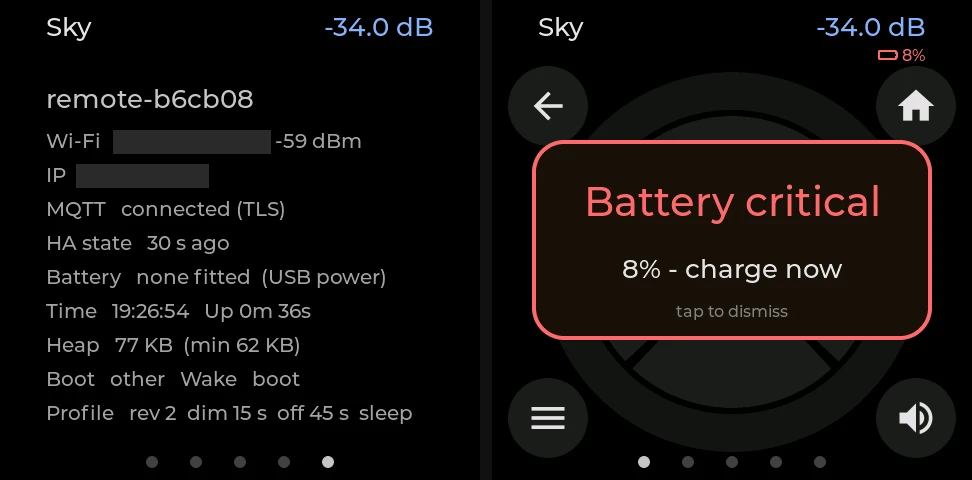
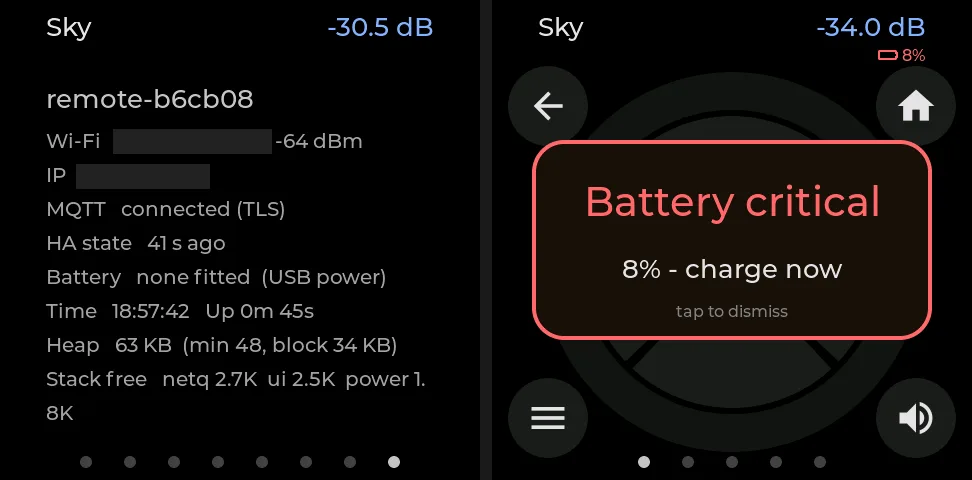
Update ESP32 remote post: new pages, honest-wait states, power findings
Claude-Session: https://claude.ai/code/session_01TQ4sYKLkZeBUUXYK5Le9vc

diff --git a/src/content/posts/2026/10/a-touchscreen-remote-for-home-assistant.md b/src/content/posts/2026/10/a-touchscreen-remote-for-home-assistant.md
@@ -1,5 +1,6 @@
 ---
 pubDatetime: 2026-10-16T19:00:00Z
+modDatetime: 2026-10-19T19:30:00Z
 title: "A Touchscreen Remote for Home Assistant, and I Didn't Write a Line of It"
 tags:
   - "home-assistant"
@@ -38,7 +39,7 @@ When I say "I" about the firmware, I mean Claude. This is the first project wher
 
 The board arrived around 2pm. By 7pm it was a fully working remote. Some of the groundwork was already there: I'd had a Zigbee prototype running on a spare ESP32-C6 board earlier in the week, and Claude and I had already agreed how the remote would talk to Home Assistant. Even so, the time from "it's on the desk" to "I'm changing the Sky box with it" was five hours.
 
-The numbers: ten commits, roughly 1,700 lines of C++ in a handful of files, and 170 lines of Home Assistant YAML. What I did was plug the board in, paste in what the computer reported, say what I saw, and say what I wanted different.
+The numbers for that first day: ten commits, roughly 1,700 lines of C++ in a handful of files, and 170 lines of Home Assistant YAML. (Three days on it is 44 commits and about 2,600 lines, and the page descriptions below are the current ones.) What I did was plug the board in, paste in what the computer reported, say what I saw, and say what I wanted different.
 
 ## How it fits together
 
@@ -56,13 +57,13 @@ Security was a decision I wanted to make explicitly. The connection uses TLS and
 
 ![Four of the pages: the click-wheel, the Activities tiles, the Playback keys and the number pad](/blog-media/2026/10/esp-remote-pages.webp)
 
-There are five pages, and you swipe or tap the dots to move between them.
+There are eight pages now. It started with five. You drag a thumb across any empty part of the screen and it turns a page for every 70 pixels, in either direction, without lifting. You can also tap a dot, or press the BOOT button on the side, which steps through the pages in a loop. I'd noticed we weren't using the physical buttons at all.
 
 **The click-wheel** is my favourite. There's an OK button in the middle, four wedges around it for the D-pad, and a thin outer ring. Run your thumb around the ring and it sends volume steps, one every 15 degrees, with a highlighted arc under your thumb. I asked for the ring to be thinner so my thumb fits on the D-pad.
 
 **Activities** has six tiles: Sky, Kodi, PS5, Chromecast, the TV and power off. The icons come from my Home Assistant dashboards, rendered in one colour. The activity that's really on is outlined in blue. Tap a different one and it turns amber at once, with "Starting Kodi" along the top, and stays that way until Home Assistant confirms it. That fixed something that annoyed me early on, when the screen stepped through Smart TV and Chromecast on the way to Sky because that's what the system did while it switched. Now the remote holds on to what I asked for and only shows the result.
 
-**Playback** and **Keypad** are what they sound like. A fifth page shows the device's own details: Wi-Fi, address, memory, battery.
+**Playback** and **Keypad** are what they sound like. The last page shows the device's own details: Wi-Fi, address, memory, battery. It's always there, even when everything is off.
 
 A few things came from my asking "could it…":
 
@@ -75,6 +76,29 @@ I was ready to push back on the captions on the Playback page until I saw them. 
 
 The speaker is there for battery warnings: two chirps at 20%, three lower tones at 10%, with a popup on screen as well. I also asked for an easter egg. Triple tap the device page, or hold it, and it plays a 30-second countdown clock. It lives in 970 KB of flash, so it's the first thing to go if I run short of space.
 
+### The pages that came later
+
+![Smart TV apps, the favourite Sky channels and the living-room lamps](/blog-media/2026/10/esp-remote-more-pages.webp)
+
+**Smart TV apps** is six tiles for Netflix, Prime, Disney+, iPlayer, ITVX and U. It only appears when the LG's own apps are what I'm after, because they can't be opened from another input. Tap Smart TV and the remote jumps to it.
+
+**Sky channels** is nine favourites with their logos: BBC One and Two, ITV1, Channel 4 and 5, TLC, Sky News, U&Dave and True Crime. The logos are single-colour, tinted to match the rest of the icons. Home Assistant types the channel number into the Sky box, and lights the tile for whatever the box is really showing, which it reads from the box every five seconds. That took some finding out. The Sky integration in Home Assistant can only send keys, so Claude went looking and found the box answers on two local ports: a list of channels, and a UPnP call that reports what's playing as a hex channel id. The first channel number Claude guessed for TLC turned out to be Sky Nature. I'd have missed that. It checked the box's own guide and fixed it.
+
+**Lamps** is the one I like to show people. It's the click-wheel again, with three wedges that toggle my three living-room lamps, a lightbulb in the centre that switches them all (off if any is on, otherwise on), and a warm white ring that dims or brightens whatever is lit. It's always available, since I'm as likely to want the lamps when the TV is off. Two of the lamps are Yeelight and one is Govee, and I'd named them inconsistently over the years, so I renamed them to `lamp_1` to `lamp_3` first. That was one of those jobs where Claude asked for permission twice, rightly, because it was changing my live Home Assistant registry.
+
+## Making it honest about what it's doing
+
+The first version showed a result as soon as I tapped. That's nice until the thing you asked for doesn't happen. Turning on the TV from cold with CEC takes up to two minutes, because the first wake-up command only half works and the TV needs two or three. Claude found that by turning on CEC logging on the media box and reading the frames. It's the TV, not the remote or Home Assistant, and I may try the TV's quick-start setting.
+
+So the remote now tells the truth about the wait:
+
+- A tile I tap turns amber for five seconds, then goes blue. The top bar stays amber ("Starting Kodi") until the real state arrives, so the tile says what I asked for and the bar says it isn't there yet. That stopped me stabbing at it.
+- A small tick appears once Home Assistant has taken the tap. If nothing has answered after three seconds, the bar goes red and says "No answer from HA". I tested that by switching off the automation that listens for key presses.
+- The apps and channels pages follow what I asked for, not what the TV is doing, so they appear straight away.
+- Once everything's off, the Off tile goes dim grey instead of blue, since there's nothing left for it to do.
+
+I also noticed switching between sources was slower from the remote than from Home Assistant's own page, and asked why. Claude compared the two and found my scripts were waiting a fixed time for the TV and receiver even when they were already on. It added a "warm" path that skips the waits, with the old timing kept for the cases that needed it. Kodi got about seven seconds faster.
+
 ## Where it went wrong
 
 **The pins didn't agree.** Waveshare's example code disagreed with itself. The Arduino examples and the ESP-IDF examples had the display's chip-select and the touch interrupt the other way round. Claude downloaded the schematic PDF, rendered the page and read the pin table off it. The site served an HTML page to a plain download, so it needed browser-style headers first. The schematic matched the Arduino numbers, and the board confirmed it.
@@ -82,6 +106,8 @@ The speaker is there for battery warnings: two chirps at 20%, three lower tones 
 **It didn't fit in memory.** Waveshare's example configuration left 52 KB free before Wi-Fi started, and Wi-Fi then failed to initialise. Claude trimmed it: no demo screens, a smaller graphics pool, smaller Wi-Fi and TLS buffers. It runs now with about 77 KB free and a low of 62 KB, which I know because the device page shows it. That's less headroom than I'd like.
 
 **Key presses vanished.** The remote reported sending them and Home Assistant saw nothing. A messaging-library call that looks like it queues a message quietly throws it away when you ask for the lightest delivery setting. Claude found it by rereading the library's documentation.
+
+**Switching a power rail off silenced the speaker.** While hunting for where the power goes, Claude switched off one of the power chip's rails, and the beeps I was using as markers stopped, because that rail feeds the audio chip. I'd taken the silence for a crash, and Claude had told me it was one. It wasn't, and I got the correction.
 
 **The motion sensor lied.** It returned the same reading every time. Claude dumped the chip's registers and found its own sample counter never moved. It only samples when the gyroscope is switched on as well, even if you only want acceleration.
 
@@ -93,16 +119,22 @@ You can't read a screen back from the panel itself. So Claude built a debug opti
 
 The battery warning on the right is real firmware running with the battery level faked, since there's no battery to drain. The device page on the left has the Wi-Fi name and address covered.
 
+## Power, and what the meter said
+
+I wanted to know where the 44 mA goes, so Claude built a test harness that steps through states while I read an inline USB meter: screen off, motion sensor off, Wi-Fi off, display chip asleep, light sleep. The screen costs about 8 mA and Wi-Fi about 8 mA. The motion sensor costs nothing I could see. But a floor of 28 to 31 mA stayed that nothing in the firmware explained, even with every spare power rail off. That's probably board overhead on the USB side that won't exist on a battery. We stopped, because measuring a battery's draw through the USB port is the wrong place to look.
+
+For five days on a 1,000 mAh cell the average has to be about 8 mA, so something more drastic than dimming is needed. Claude wrote that up with the options: Wi-Fi light sleep, deep sleep with the screen's touch interrupt as the only wake-up, or going back to Zigbee. It recommended trying deep sleep before Zigbee, because the saving comes from sleeping, not from the radio. I said no changes until I have a battery to test with.
+
 ## What's left
 
-The battery is the obvious one. The listing implied one was included. The schematic shows a small two-pin connector, but it labels it as a different type from the one on the store page, so I need to check that and its polarity before I buy a cell. The charging current is Waveshare's example setting, and I haven't checked it against any real battery.
+The battery is the obvious one. The listing implied one was included. I've ordered a 1,000 mAh lithium polymer cell with a protection circuit, and it arrives on Thursday. The connector is still a question: the schematic shows a small two-pin socket that the store page calls a different type, and I've already bought crimp connectors for a third. I'll check the plug fits and test the polarity with a multimeter before I connect anything. The charging current is Waveshare's example setting, and I need to match it to the cell first.
 
-I also don't know the battery life, because I haven't built proper sleep. It dims and switches the screen off, which should save most of the power, but the processor and Wi-Fi stay on. Measuring that properly needs an inline USB power meter, which I'll have to find. And I haven't tried it in the case with a battery inside.
+I also don't know the battery life. The USB figures say it's well short of the Harmony Elite's five days, until I build proper sleep. Real figures need a meter on the battery side. And I haven't tried it in the case with a battery inside.
 
-"Fully functional" means everything I use every day works: the five pages, the activities, the volume ring, the Sky box, Kodi. It doesn't mean finished.
+"Fully functional" means everything I use every day works: the eight pages, the activities, the volume ring, the Sky box, Kodi, the lamps. It doesn't mean finished, but it's close to being the thing I pick up every evening.
 
 ## On not writing any of it
 
 I've judged this code mostly by what it does, not by reading it the way I'd read my own. So I rely on what I can see: it works at the TV, a few small tests check the logic, and every commit was checked against my real passwords before it went in. Claude also wrote a design document and a security note as it went, which is more than I'd have done.
 
-The next job is finding a battery with the right plug.
+The next job is Thursday's battery, and then finding out how long it lasts.
